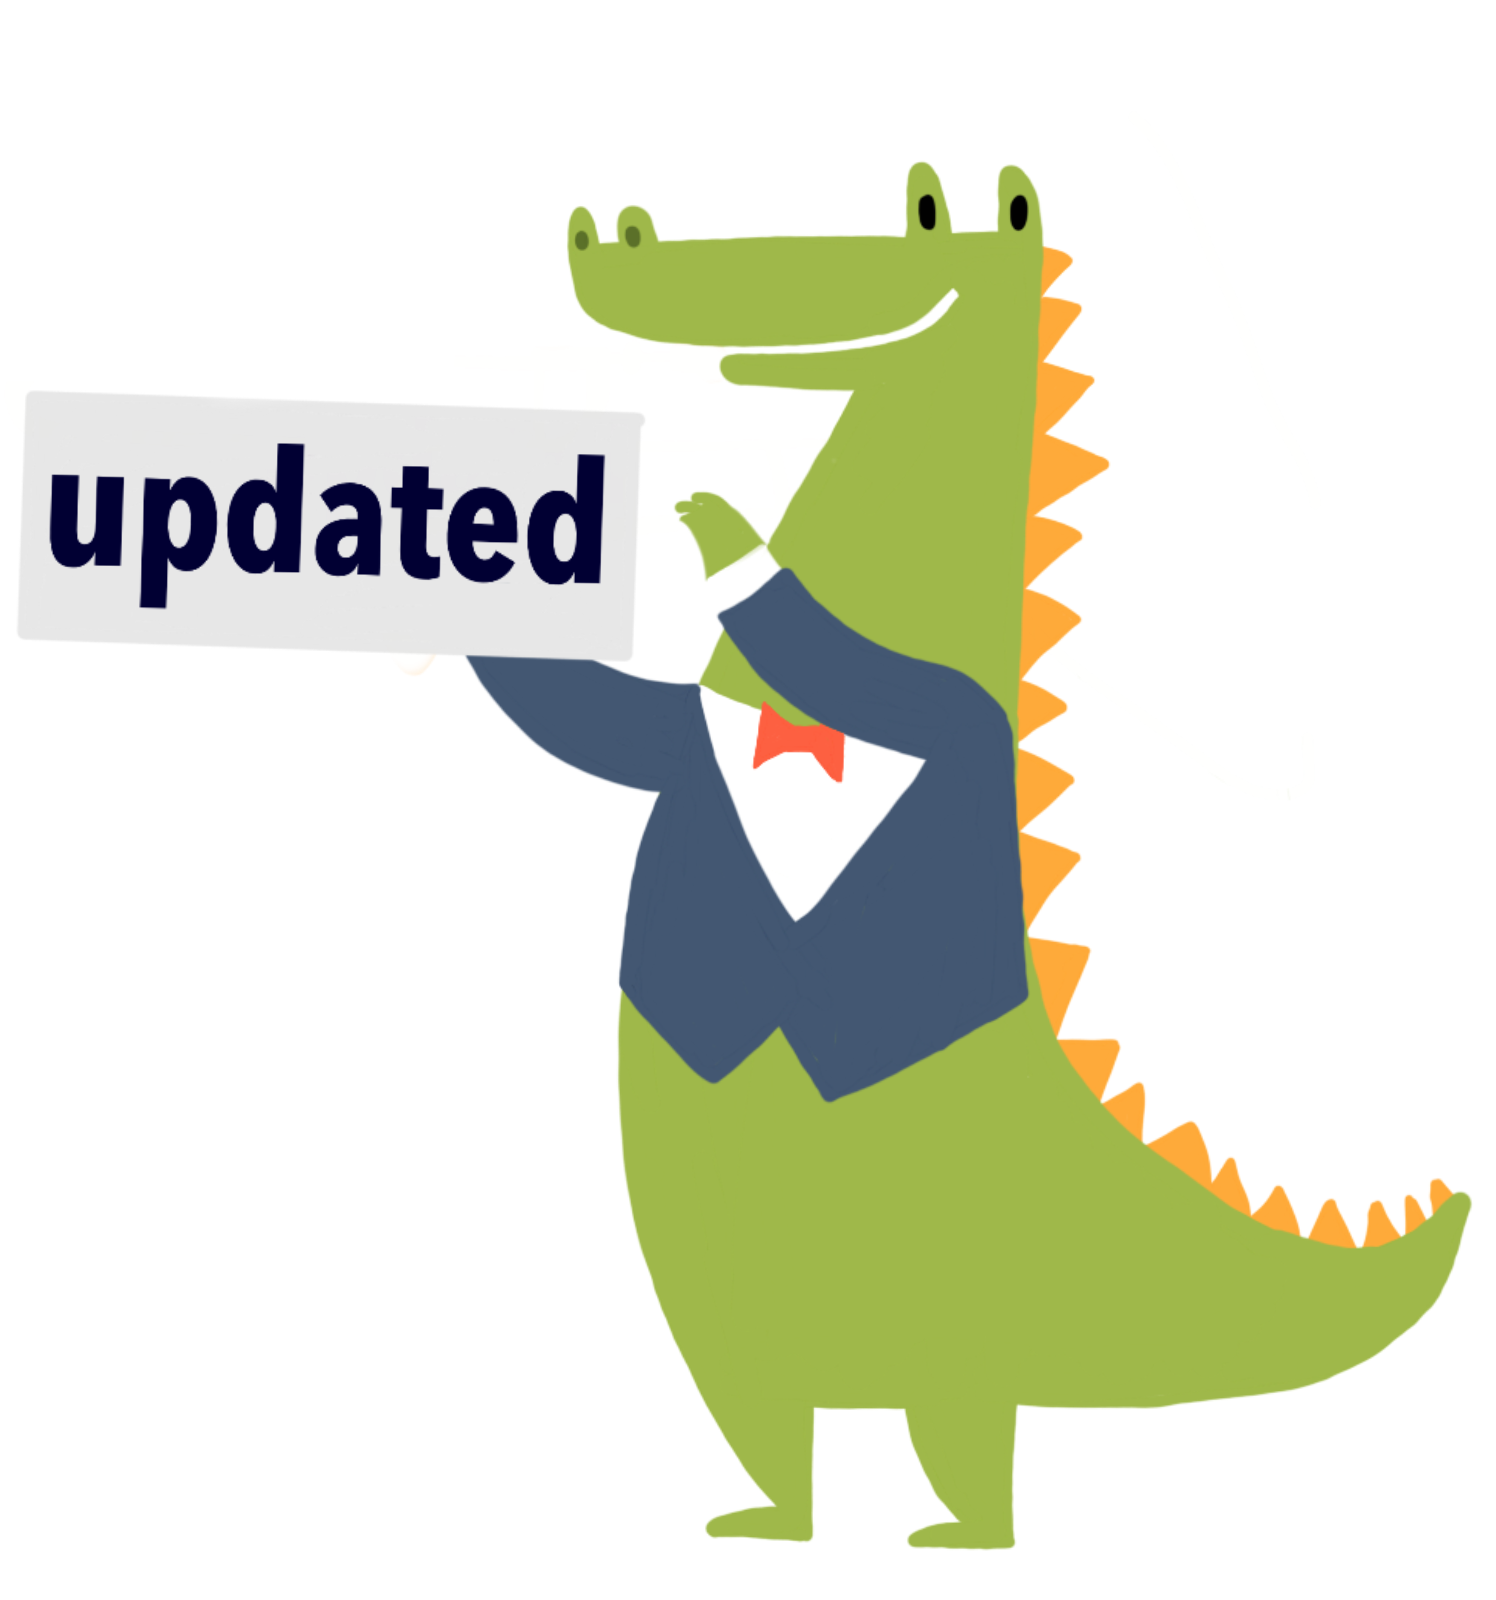
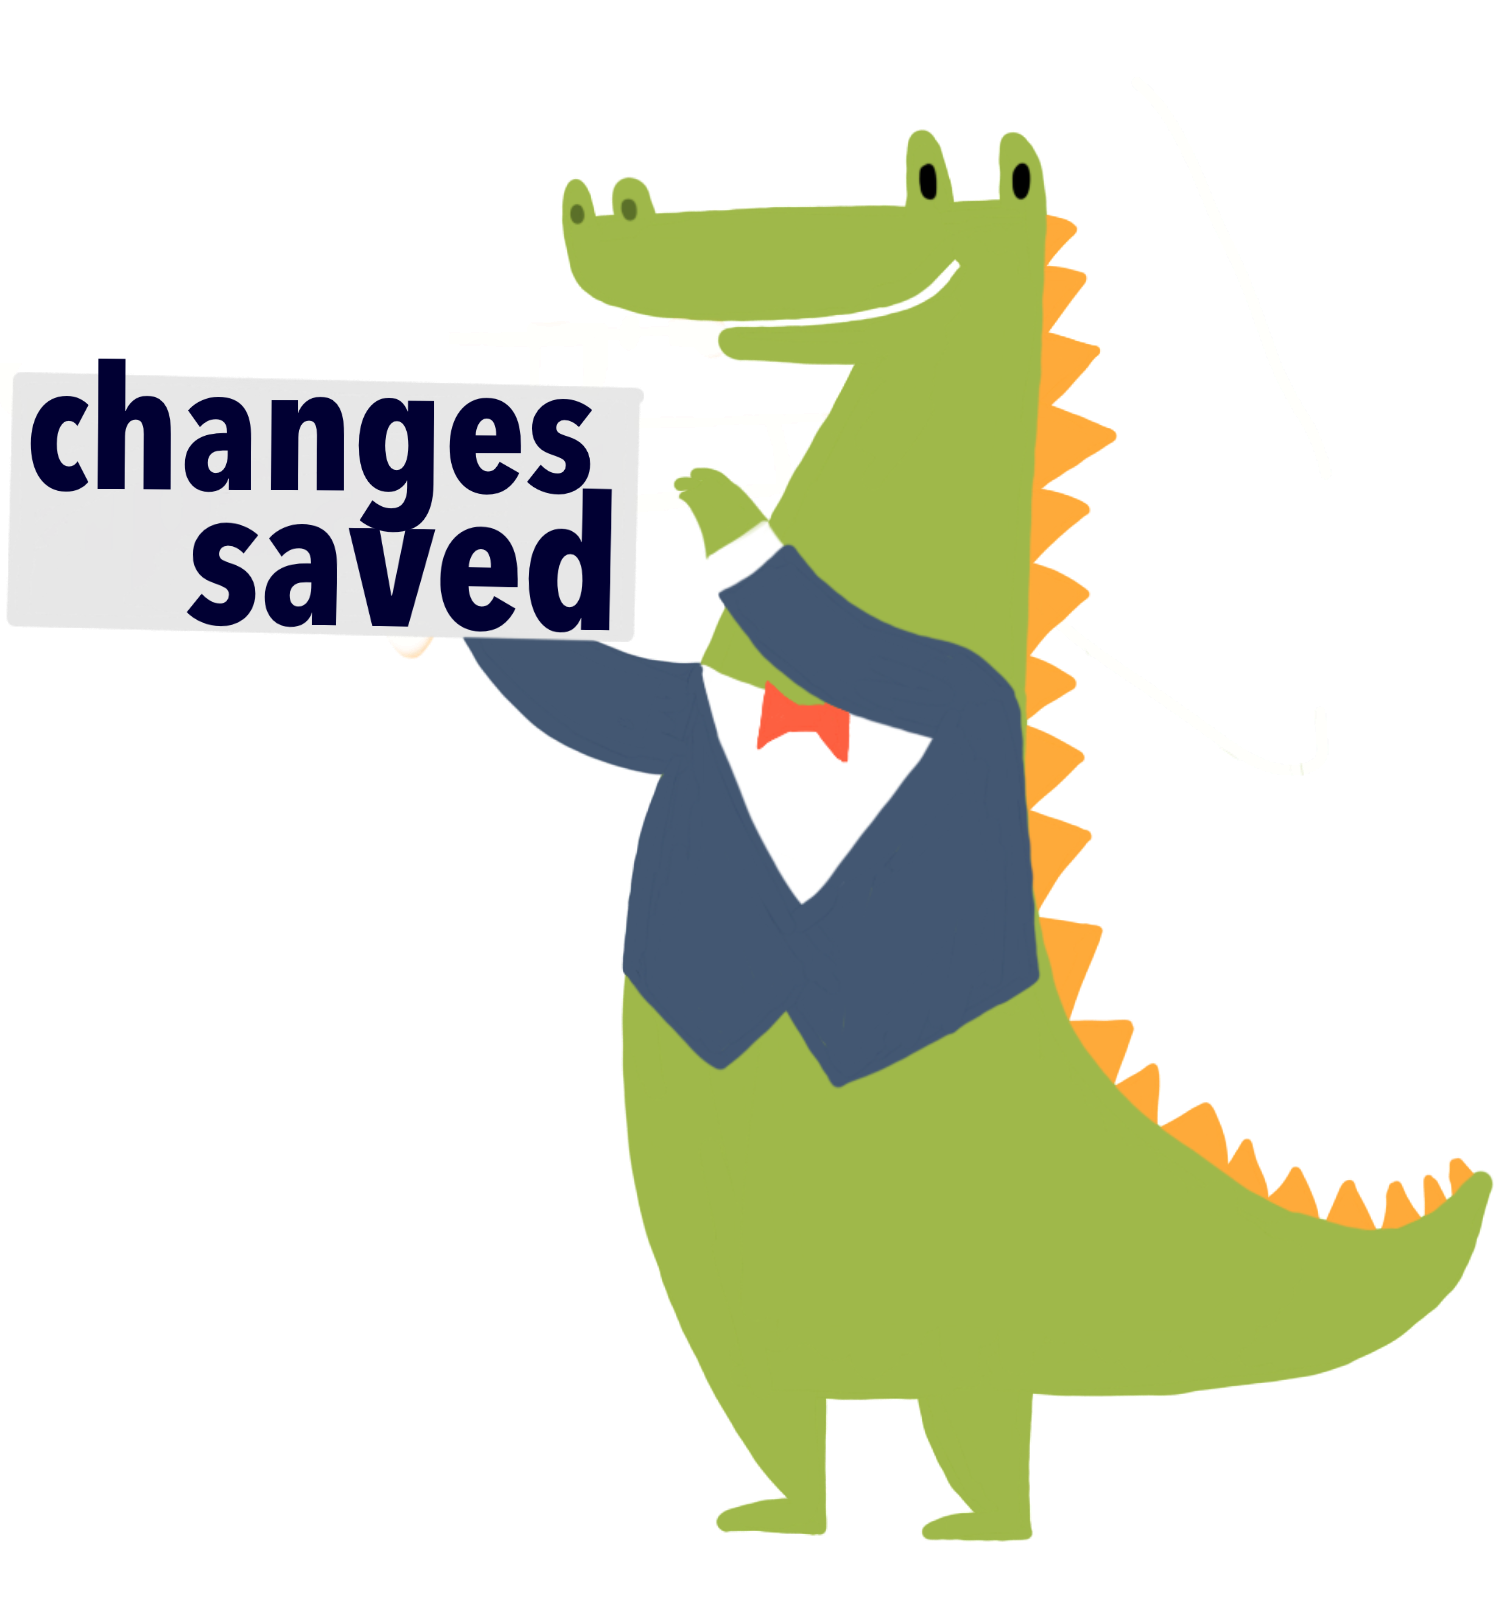
Refactor on error pages due to a new page included called profile_updated.html

diff --git a/src/main/resources/templates/profile_updated.html b/src/main/resources/templates/profile_updated.html
@@ -2,24 +2,48 @@
 =========================================================
 * THEME: Argon Dashboard - v1.2.0
 =========================================================
-* Product Page: https://www.creative-tim.com/product/argon-dashboard
-* Copyright  Creative Tim (http://www.creative-tim.com)
-=========================================================
 -->
 <!DOCTYPE html>
 <html lang="en">
-    <!-- Head -->
-    {{>head}}
-    <!-- /Head -->
+<!-- Head -->
+{{>head}}
+<!-- /Head -->
 
-    <body>
-        <h2>YOUR PROFILE HAS BEEN UPDATED</h2>
-
-        <div class="error-button">
-            <a class="btn btn-primary" href="/profile">
-                <span class="nav-link-inner--text">Back to PROFILE</span>
-            </a>
+<body>
+<div class="update-body">
+    <div class="row">
+        <div class="col-xl-4"></div>
+        <div class="col-xl-4">
+            <div class="update-message">
+                <h2> Thanks for the new info!</h2>
+            </div>
+            <div class="update-image">
+                <img src="../assets/img/profileupdated_animal.png" style="max-width: 60%;height: auto;">
+            </div>
+            <div class="update-message">
+                <h2>Your info has been updated</h2>
+            </div>
+            <div class="update-button">
+                <a class="btn btn-primary" href="/profile">
+                    <span class="nav-link-inner--text">Back to PROFILE</span>
+                </a>
+            </div>
         </div>
-    </body>
+        <div class="col-xl-4"></div>
+    </div>
+</div>
 
+
+<!-- Footer -->
+<div class="footer nav-footer">
+    {{>footer}}
+</div>
+<!-- /Footer -->
+
+<!-- Scripts -->
+<div class="scripts">
+    {{>scripts}}
+</div>
+<!-- /Scrips -->
+</body>
 </html>

diff --git a/src/main/resources/templates/profile.html b/src/main/resources/templates/profile.html
@@ -51,7 +51,7 @@
                     <li class="nav-item dropdown">
                         <a class="nav-link pr-0" href="#" role="button" data-toggle="dropdown" aria-haspopup="true" aria-expanded="false">
                             <div class="media align-items-center">
-                          <span class="avatar avatar-sm rounded-circle">
+                          <span class="avatar avatar-lg rounded-circle">
                             <img alt="Image placeholder" src="../assets/img/theme/user_default.png">
                           </span>
                                 <div class="media-body  ml-2  d-none d-lg-block">
@@ -274,6 +274,7 @@
                                     {{/user}}
                                     <div class="form-group" id="user-image">
                                         <label class="form-control-label" for="basic-url">Upload your profile image</label>
+                                        <h4>We recommend a square picture</h4>
                                         <div class="input-group">
                                             <div class="input-group-prepend">
                                                 <span class="input-group-text" id="basic-addon3">IMAGE URL</span>

diff --git a/src/main/resources/templates/info_updated.html b/src/main/resources/templates/info_updated.html
@@ -10,20 +10,20 @@
 <!-- /Head -->
 
 <body>
-    <div class="error-body">
+    <div class="update-body">
         <div class="row">
             <div class="col-xl-4"></div>
             <div class="col-xl-4">
-                <div class="error-message">
+                <div class="update-message">
                     <h1> HEY THERE ADMIN USER!</h1>
                 </div>
-                <div class="updated-image">
+                <div class="update-image">
                     <img src="../assets/img/updated_animal.png" style="max-width: 60%;height: auto;">
                 </div>
-                <div class="updated-message">
+                <div class="update-message">
                     <h4>INFO HAS BEEN UPDATED/CREATED/DELETED CORRECTLY!</h4>
                 </div>
-                <div class="updated-button">
+                <div class="update-button">
                     <a class="btn btn-primary" href="/admin">
                         <span class="nav-link-inner--text">Back to ADMIN</span>
                     </a>

diff --git a/src/main/resources/templates/loginerror.html b/src/main/resources/templates/loginerror.html
@@ -15,13 +15,13 @@
                 <div class="col-xl-4"></div>
                 <div class="col-xl-4">
                     <div class="error-message">
-                        <h2> Opps... it looks like there was a problem while login</h2>
+                        <h2> Opps... it looks like something went wrong</h2>
                     </div>
                     <div class="error-image">
-                        <img src="../assets/img/error_animal.png" style="max-width: 60%;height: auto;">
+                        <img src="../assets/img/loginerror_animal.png" style="max-width: 60%;height: auto;">
                     </div>
                     <div class="error-message">
-                        <h2>Please, try again</h2>
+                        <h2>Why don't you try again?</h2>
                     </div>
                     <div class="error-button">
                         <a class="btn btn-primary" href="/login">

diff --git a/src/main/resources/static/assets/css/custom.css b/src/main/resources/static/assets/css/custom.css
@@ -11,24 +11,28 @@
 /* ERROR and LOGIN ERROR PAGE */
 
 .error-body{
-    background-color: #a8b3f0;
+    background-color: #adb5bd;
 }
-
-.error-message{
+.update-body{
+    background-color: #2dce89;
+}
+.error-message, .update-message{
     padding-top: 60px;
     text-align: center;
 }
-
-.error-image{
+.error-image, .update-image{
     text-align: center;
     padding-top: 60px;
     display: flex;
     align-items: center;
     justify-content: center;
 }
-
-.error-button{
+.error-button, .update-button{
     text-align: center;
     padding-top: 60px;
     padding-bottom: 40px;
+}
+
+.navbar-horizontal .navbar-brand img {
+    height: 50px;
 }

diff --git a/src/main/resources/templates/dashboard.html b/src/main/resources/templates/dashboard.html
@@ -51,7 +51,7 @@
             <li class="nav-item dropdown">
               <a class="nav-link pr-0" href="#" role="button" data-toggle="dropdown" aria-haspopup="true" aria-expanded="false">
                 <div class="media align-items-center">
-                          <span class="avatar avatar-sm rounded-circle">
+                          <span class="avatar avatar-lg rounded-circle">
                             <img alt="Image placeholder" src="../assets/img/theme/user_default.png">
                           </span>
                   <div class="media-body  ml-2  d-none d-lg-block">
